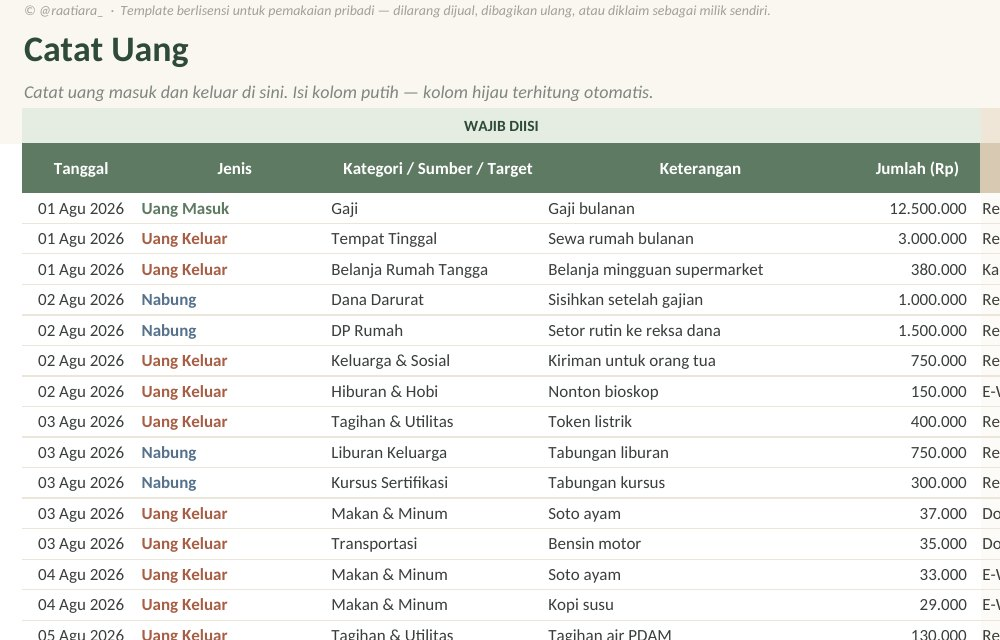
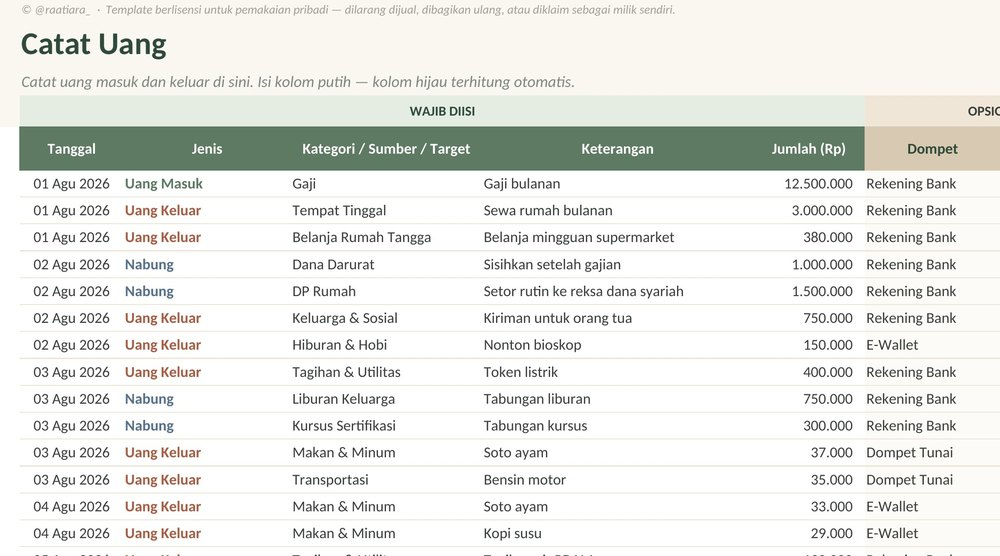
Add files via upload

Changed region(s): [[0.0, 0.1835, 1.0, 1.0], [0.0, 0.0612, 0.651, 0.1835], [0.031, 0.0, 0.775, 0.0306]]

diff --git a/config.js b/config.js
@@ -19,7 +19,7 @@ const CONFIG = {
   /* ---------------------------- PROFIL ---------------------------------- */
   nama: "Tiara's Corner",
   tagline: "A little corner of my world ♡",
-  sapaan: "Hai, senang kamu mampir!",
+  sapaan: "Hai, senang kamu mampir! Di sini aku berbagi tulisan, buku, dan karya kecil yang kubuat dengan sepenuh hati.",
   fotoProfil: "",        // contoh: "gambar/profil.jpg"  — kosongkan untuk menampilkan inisial
   inisial: "T",
 
@@ -29,7 +29,7 @@ const CONFIG = {
     tampilkan: true,     // ubah ke false untuk menyembunyikan bagian ini
     label: "My Blog",
     judul: "Ruang Tulisku",
-    deskripsi: "Hanya tempat tulisan yang dirasa terlalu panjang jadi caption di instagram",
+    deskripsi: "Tempat saya berbagi tulisan dan berbagai pemikiran.",
     tombol: "Kunjungi Blog",
     link: "https://nurmutiara-h-hbw.blogspot.com/?m=1",
   },
@@ -54,13 +54,13 @@ const CONFIG = {
     tampilkan: true,
     label: "My Digital Product",
     nama: "Planner Keuangan Pribadi",
-    ringkas: "Cukup catat uang masuk dan keluar. Total, anggaran, target tabungan, dan grafik dihitung otomatis. Mulai dalam 5 menit!",
-    format: "File Excel · tanpa makro",
+    ringkas: "Cukup catat uang masuk dan keluar. Total, anggaran, target tabungan, dan grafik dihitung otomatis. Tanpa bunga, tanpa paylater, ada pos zakat & sedekah.",
+    format: "File Excel · tanpa makro · tanpa bunga",
     harga: "Rp 25.000",
     hargaCoret: "Rp 30.000",   // harga sebelum diskon — kosongkan jika tidak ada
     labelPromo: "Harga promo",  // tulisan kecil di samping harga — kosongkan jika tidak perlu
     tombol: "Beli di Lynk.id",
-    link: "",                  // ← TEMPEL LINK LYNK.ID DI SINI, contoh: "https://lynk.id/raatiara_/xxxx"
+    link: "https://lynk.id/13nurmutiarahusnah/4v96jq3g9oyx",   // link pembelian di Lynk.id
 
     // Gambar kecil di kartu halaman utama
     gambarKartu: "preview-ringkasan.jpg",
@@ -71,10 +71,11 @@ const CONFIG = {
       { gambar: "preview-catat-uang.jpg", keterangan: "Catat Uang: sekitar 10 detik per catatan" },
     ],
 
-    apaItu: "Planner Keuangan Pribadi adalah file Excel siap pakai untuk mencatat keuanganmu sehari-hari. Kamu cukup mengisi tanggal, jenis, kategori, dan jumlah uang. Sisanya dikerjakan planner: menjumlahkan semuanya, membandingkan dengan anggaran, menghitung progres tabungan, dan membuat grafik. Tidak harus sempurna, yang penting mulai.",
+    apaItu: "Planner Keuangan Pribadi adalah file Excel siap pakai untuk mencatat keuanganmu sehari-hari. Kamu cukup mengisi tanggal, jenis, kategori, dan jumlah uang. Sisanya dikerjakan planner: menjumlahkan semuanya, membandingkan dengan anggaran, menghitung progres tabungan, dan membuat grafik. Planner ini dirancang dengan prinsip belanja dari uang yang ada: tanpa bunga, tanpa paylater, dan tanpa kartu kredit.",
 
     kenapaPerlu: [
       "Kamu jadi tahu ke mana saja uangmu pergi setiap bulan.",
+      "Lebih mudah menyisihkan zakat, infak, dan sedekah secara rutin.",
       "Lebih mudah membedakan mana kebutuhan dan mana keinginan.",
       "Menabung jadi terarah karena setiap target terlihat progresnya.",
       "Kamu tahu berapa yang masih boleh dibelanjakan per hari sampai akhir bulan.",
@@ -84,7 +85,7 @@ const CONFIG = {
       { masalah: "Gaji cepat habis sebelum akhir bulan", solusi: "Sorotan bulan ini menunjukkan pengeluaran terbesar dan kategori yang melewati anggaran." },
       { masalah: "Bingung boleh jajan berapa hari ini", solusi: "Ada 'Jatah harian tersisa': sisa anggaran dibagi sisa hari." },
       { masalah: "Tabungan tidak pernah terkumpul", solusi: "Buat target seperti Dana Darurat atau DP Rumah, lalu pantau persentasenya." },
-      { masalah: "Uang tersebar di rekening, e-wallet, dan paylater", solusi: "Sheet Dompet & Utang mencatat saldo tiap rekening dan sisa tagihan." },
+      { masalah: "Masih punya utang yang ingin cepat lunas", solusi: "Sheet Utang menampilkan sisa utang, progres lunas, dan perkiraan kapan selesai, tanpa bunga." },
     ],
 
     fitur: [
@@ -93,9 +94,9 @@ const CONFIG = {
       { ikon: "🧮", judul: "Hitung Otomatis", isi: "Uang masuk, keluar, ditabung, dan sisa uang langsung terisi." },
       { ikon: "📋", judul: "Anggaran per Kategori", isi: "Status aman, mendekati batas, atau perlu dicek." },
       { ikon: "📊", judul: "Dashboard & Grafik", isi: "Pilih bulan dan tahun, rekap langsung berubah." },
-      { ikon: "💡", judul: "Sorotan Otomatis", isi: "Ringkasan kategori terbesar dan yang melewati anggaran." },
       { ikon: "⚖", judul: "Kebutuhan : Keinginan", isi: "Lihat perbandingan belanja penting dan belanja keinginan." },
-      { ikon: "👛", judul: "Dompet & Utang", isi: "Saldo tiap rekening, e-wallet, paylater, dan cicilan." },
+      { ikon: "🤲", judul: "Zakat, Infak & Sedekah", isi: "Pos khusus agar berbagi jadi kebiasaan rutin setiap bulan." },
+      { ikon: "👛", judul: "Dompet & Pelunasan Utang", isi: "Saldo tiap rekening dan progres melunasi utang tanpa bunga." },
     ],
 
     caraPakai: [
@@ -108,7 +109,7 @@ const CONFIG = {
 
     // Isi paket yang didapat pembeli
     isiPaket: [
-      "File Planner Keuangan Pribadi (Excel)",
+      "File Planner Keuangan Pribadi (Excel), tanpa fitur bunga & paylater",
       "Panduan Cepat PDF: mulai mencatat dalam 5 menit",
       "Data contoh Agustus–Oktober 2026 untuk latihan",
       "Bisa dipakai di Excel 2010 ke atas / Microsoft 365 (Windows & Mac)",
@@ -116,10 +117,10 @@ const CONFIG = {
 
     cocokUntuk: [
       "Mahasiswa", "Karyawan & fresh graduate", "Ibu rumah tangga",
-      "Freelancer (penghasilan tidak tetap)", "Pengguna paylater & e-wallet", "Siapa saja yang ingin mulai rapi keuangan",
+      "Freelancer (penghasilan tidak tetap)", "Muslim yang ingin keuangan lebih berkah", "Siapa saja yang ingin mulai rapi keuangan",
     ],
 
-    catatan: "Planner ini alat bantu mencatat, bukan nasihat keuangan. Lisensi untuk pemakaian pribadi, tidak untuk dijual atau dibagikan ulang.",
+    catatan: "Planner ini alat bantu mencatat, bukan nasihat keuangan maupun fatwa. Lisensi untuk pemakaian pribadi, tidak untuk dijual atau dibagikan ulang.",
   },
 
 
@@ -127,12 +128,6 @@ const CONFIG = {
   // Untuk menambah produk/karya baru: salin satu blok { ... }, tempel di bawahnya,
   // lalu ubah isinya. Jangan lupa tanda koma di antara blok.
   lainnya: [
-    {
-      ikon: "🌱",
-      judul: "Karya Baru Segera Hadir",
-      deskripsi: "Sesuatu yang manis sedang disiapkan.",
-      link: "",
-    },
     // {
     //   ikon: "🎨",
     //   judul: "Template Canva",
